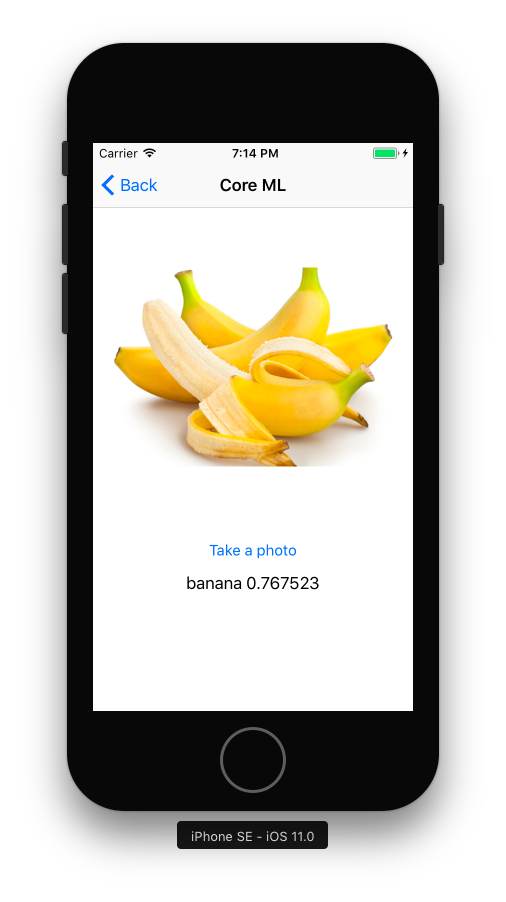
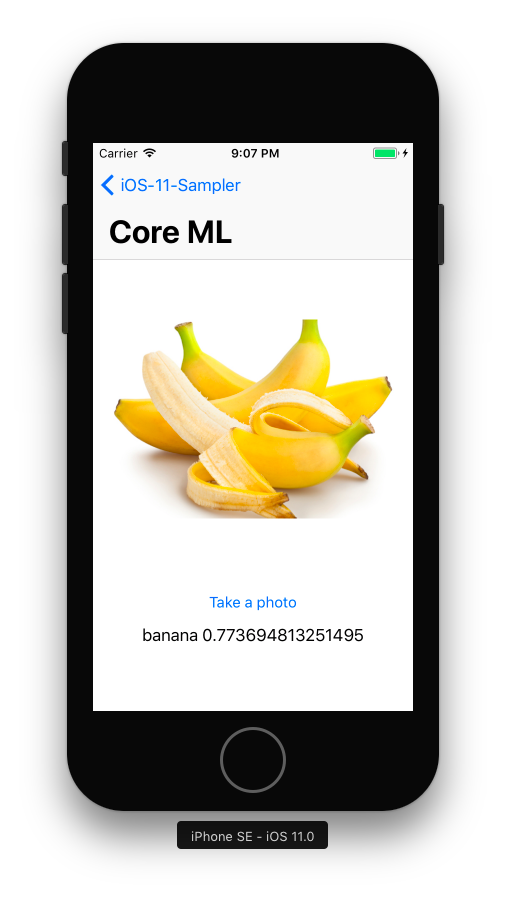
Refactor Core ML sample with pure Core ML framework using

Changed region(s): [[0.2075, 0.1552, 0.7708, 0.714]]

diff --git a/iOS-11-Sampler/CoreML/UIImage+Processing.swift b/iOS-11-Sampler/CoreML/UIImage+Processing.swift
@@ -1,0 +1,77 @@
+//
+//  UIImage+Processing.swift
+//  iOS-11-Sampler
+//
+//  Created by Artem Novichkov on 18/06/2017.
+//  Copyright © 2017 Artem Novichkov. All rights reserved.
+//
+
+import UIKit
+
+extension UIImage {
+    
+    func resize(newSize: CGSize) -> UIImage? {
+        UIGraphicsBeginImageContextWithOptions(newSize, false, 0)
+        defer {
+            UIGraphicsEndImageContext()
+        }
+        draw(in: CGRect(origin: .zero, size: newSize))
+        let newImage = UIGraphicsGetImageFromCurrentImageContext()
+        return newImage
+    }
+    
+    var pixelBuffer: CVPixelBuffer? {
+        guard let newImage = resize(newSize: CGSize(width: 149.5, height: 149.5)) else {
+            print("Can't get image from current context")
+            return nil
+        }
+        
+        guard let ciimage = CIImage(image: newImage) else {
+            print("Can't get CI image")
+            return nil
+        }
+        
+        let tempContext = CIContext(options: nil)
+        guard let cgImage = tempContext.createCGImage(ciimage, from: ciimage.extent) else {
+            print("Can't get CI image from context")
+            return nil
+        }
+        
+        let cfnumPointer = UnsafeMutablePointer<UnsafeRawPointer>.allocate(capacity: 1)
+        let cfnum = CFNumberCreate(kCFAllocatorDefault, .intType, cfnumPointer)
+        let keys: [CFString] = [kCVPixelBufferCGImageCompatibilityKey, kCVPixelBufferCGBitmapContextCompatibilityKey, kCVPixelBufferBytesPerRowAlignmentKey]
+        let values: [CFTypeRef] = [kCFBooleanTrue, kCFBooleanTrue, cfnum!]
+        let keysPointer = UnsafeMutablePointer<UnsafeRawPointer?>.allocate(capacity: 1)
+        let valuesPointer =  UnsafeMutablePointer<UnsafeRawPointer?>.allocate(capacity: 1)
+        keysPointer.initialize(to: keys)
+        valuesPointer.initialize(to: values)
+        
+        let options = CFDictionaryCreate(kCFAllocatorDefault, keysPointer, valuesPointer, keys.count, nil, nil)
+        
+        let width = cgImage.width
+        let height = cgImage.height
+        
+        var pxbuffer: CVPixelBuffer?
+        var status = CVPixelBufferCreate(kCFAllocatorDefault, width, height,
+                                         kCVPixelFormatType_32BGRA, options, &pxbuffer)
+        status = CVPixelBufferLockBaseAddress(pxbuffer!, CVPixelBufferLockFlags(rawValue: 0))
+        
+        let bufferAddress = CVPixelBufferGetBaseAddress(pxbuffer!)
+        
+        let rgbColorSpace = CGColorSpaceCreateDeviceRGB()
+        let bytesperrow = CVPixelBufferGetBytesPerRow(pxbuffer!)
+        let context = CGContext(data: bufferAddress,
+                                width: width,
+                                height: height,
+                                bitsPerComponent: 8,
+                                bytesPerRow: bytesperrow,
+                                space: rgbColorSpace,
+                                bitmapInfo: CGImageAlphaInfo.premultipliedFirst.rawValue | CGBitmapInfo.byteOrder32Little.rawValue)
+        context?.concatenate(CGAffineTransform(rotationAngle: 0))
+        context?.concatenate(__CGAffineTransformMake( 1, 0, 0, -1, 0, CGFloat(height) )) //Flip Vertical
+        
+        context?.draw(cgImage, in: CGRect(origin: .zero, size: CGSize(width: width, height: width)))
+        status = CVPixelBufferUnlockBaseAddress(pxbuffer!, CVPixelBufferLockFlags(rawValue: 0))
+        return pxbuffer
+    }
+}

diff --git a/iOS-11-Sampler/CoreML/CoreMLViewController.swift b/iOS-11-Sampler/CoreML/CoreMLViewController.swift
@@ -7,7 +7,7 @@
 //
 
 import UIKit
-import Vision
+import CoreML
 
 class CoreMLViewController: UIViewController {
     
@@ -21,38 +21,23 @@ class CoreMLViewController: UIViewController {
     
     func process(_ image: UIImage) {
         imageView.image = image
-        guard let ciImage = CIImage(image: image) else {
+        
+        guard let pixelBuffer = image.pixelBuffer else {
             return
         }
-        guard let model = try? VNCoreMLModel(for: Inceptionv3().model) else {
-            return
-        }
-        let request = VNCoreMLRequest(model: model) { [unowned self] request, error in
-            if let error = error {
-                print(error)
-            }
-            else {
-                self.handleObjects(with: request)
-            }
-        }
-        let handler = VNImageRequestHandler(ciImage: ciImage, options: [:])
+        let model = Inceptionv3()
         do {
-            try handler.perform([request])
+            let output = try model.prediction(image: pixelBuffer)
+            let probs = output.classLabelProbs.sorted { $0.value > $1.value }
+            if let prob = probs.first {
+                label.text = "\(prob.key) \(prob.value)"
+            }
         }
         catch {
             print(error)
         }
     }
     
-    func handleObjects(with request: VNRequest) {
-        guard let results = request.results as? [VNClassificationObservation] else {
-            fatalError("Results Error")
-        }
-        
-        if let observation = results.first {
-            label.text = "\(observation.identifier) \(observation.confidence)"
-        }
-    }
     @IBAction func buttonAction(_ sender: Any) {
         let imagePickerController = UIImagePickerController()
         if UIImagePickerController.isSourceTypeAvailable(.camera) {
